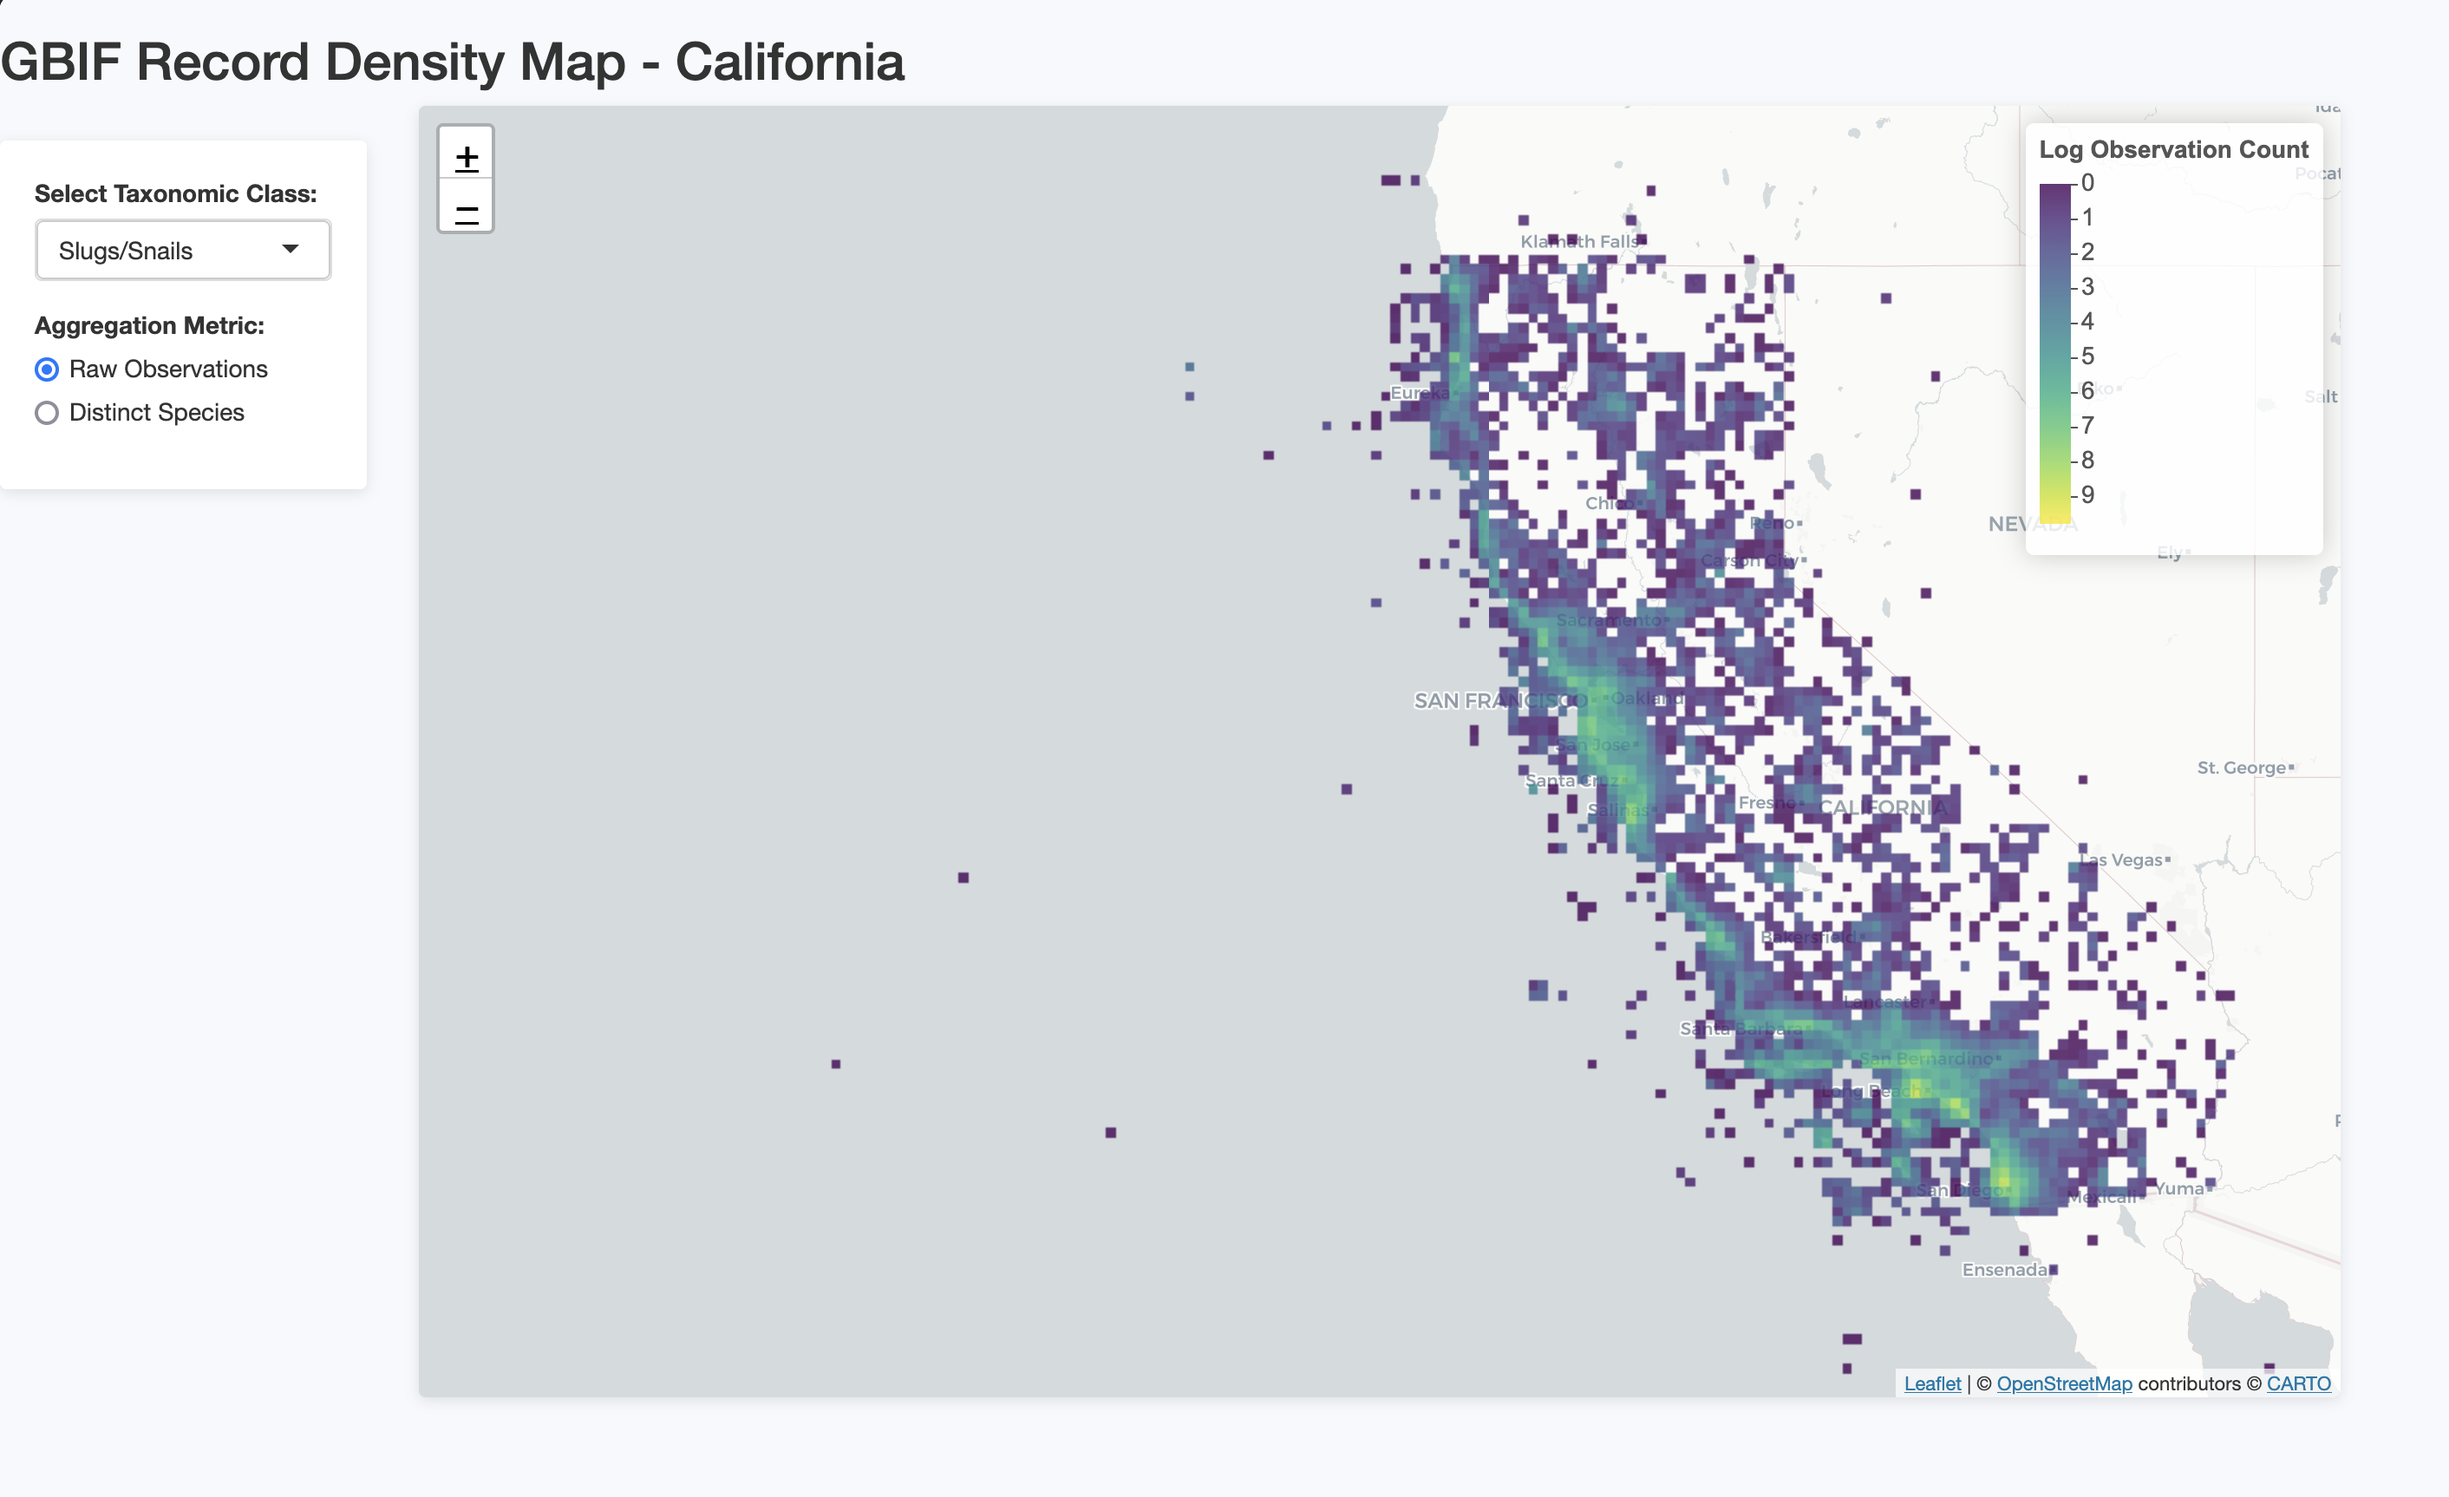
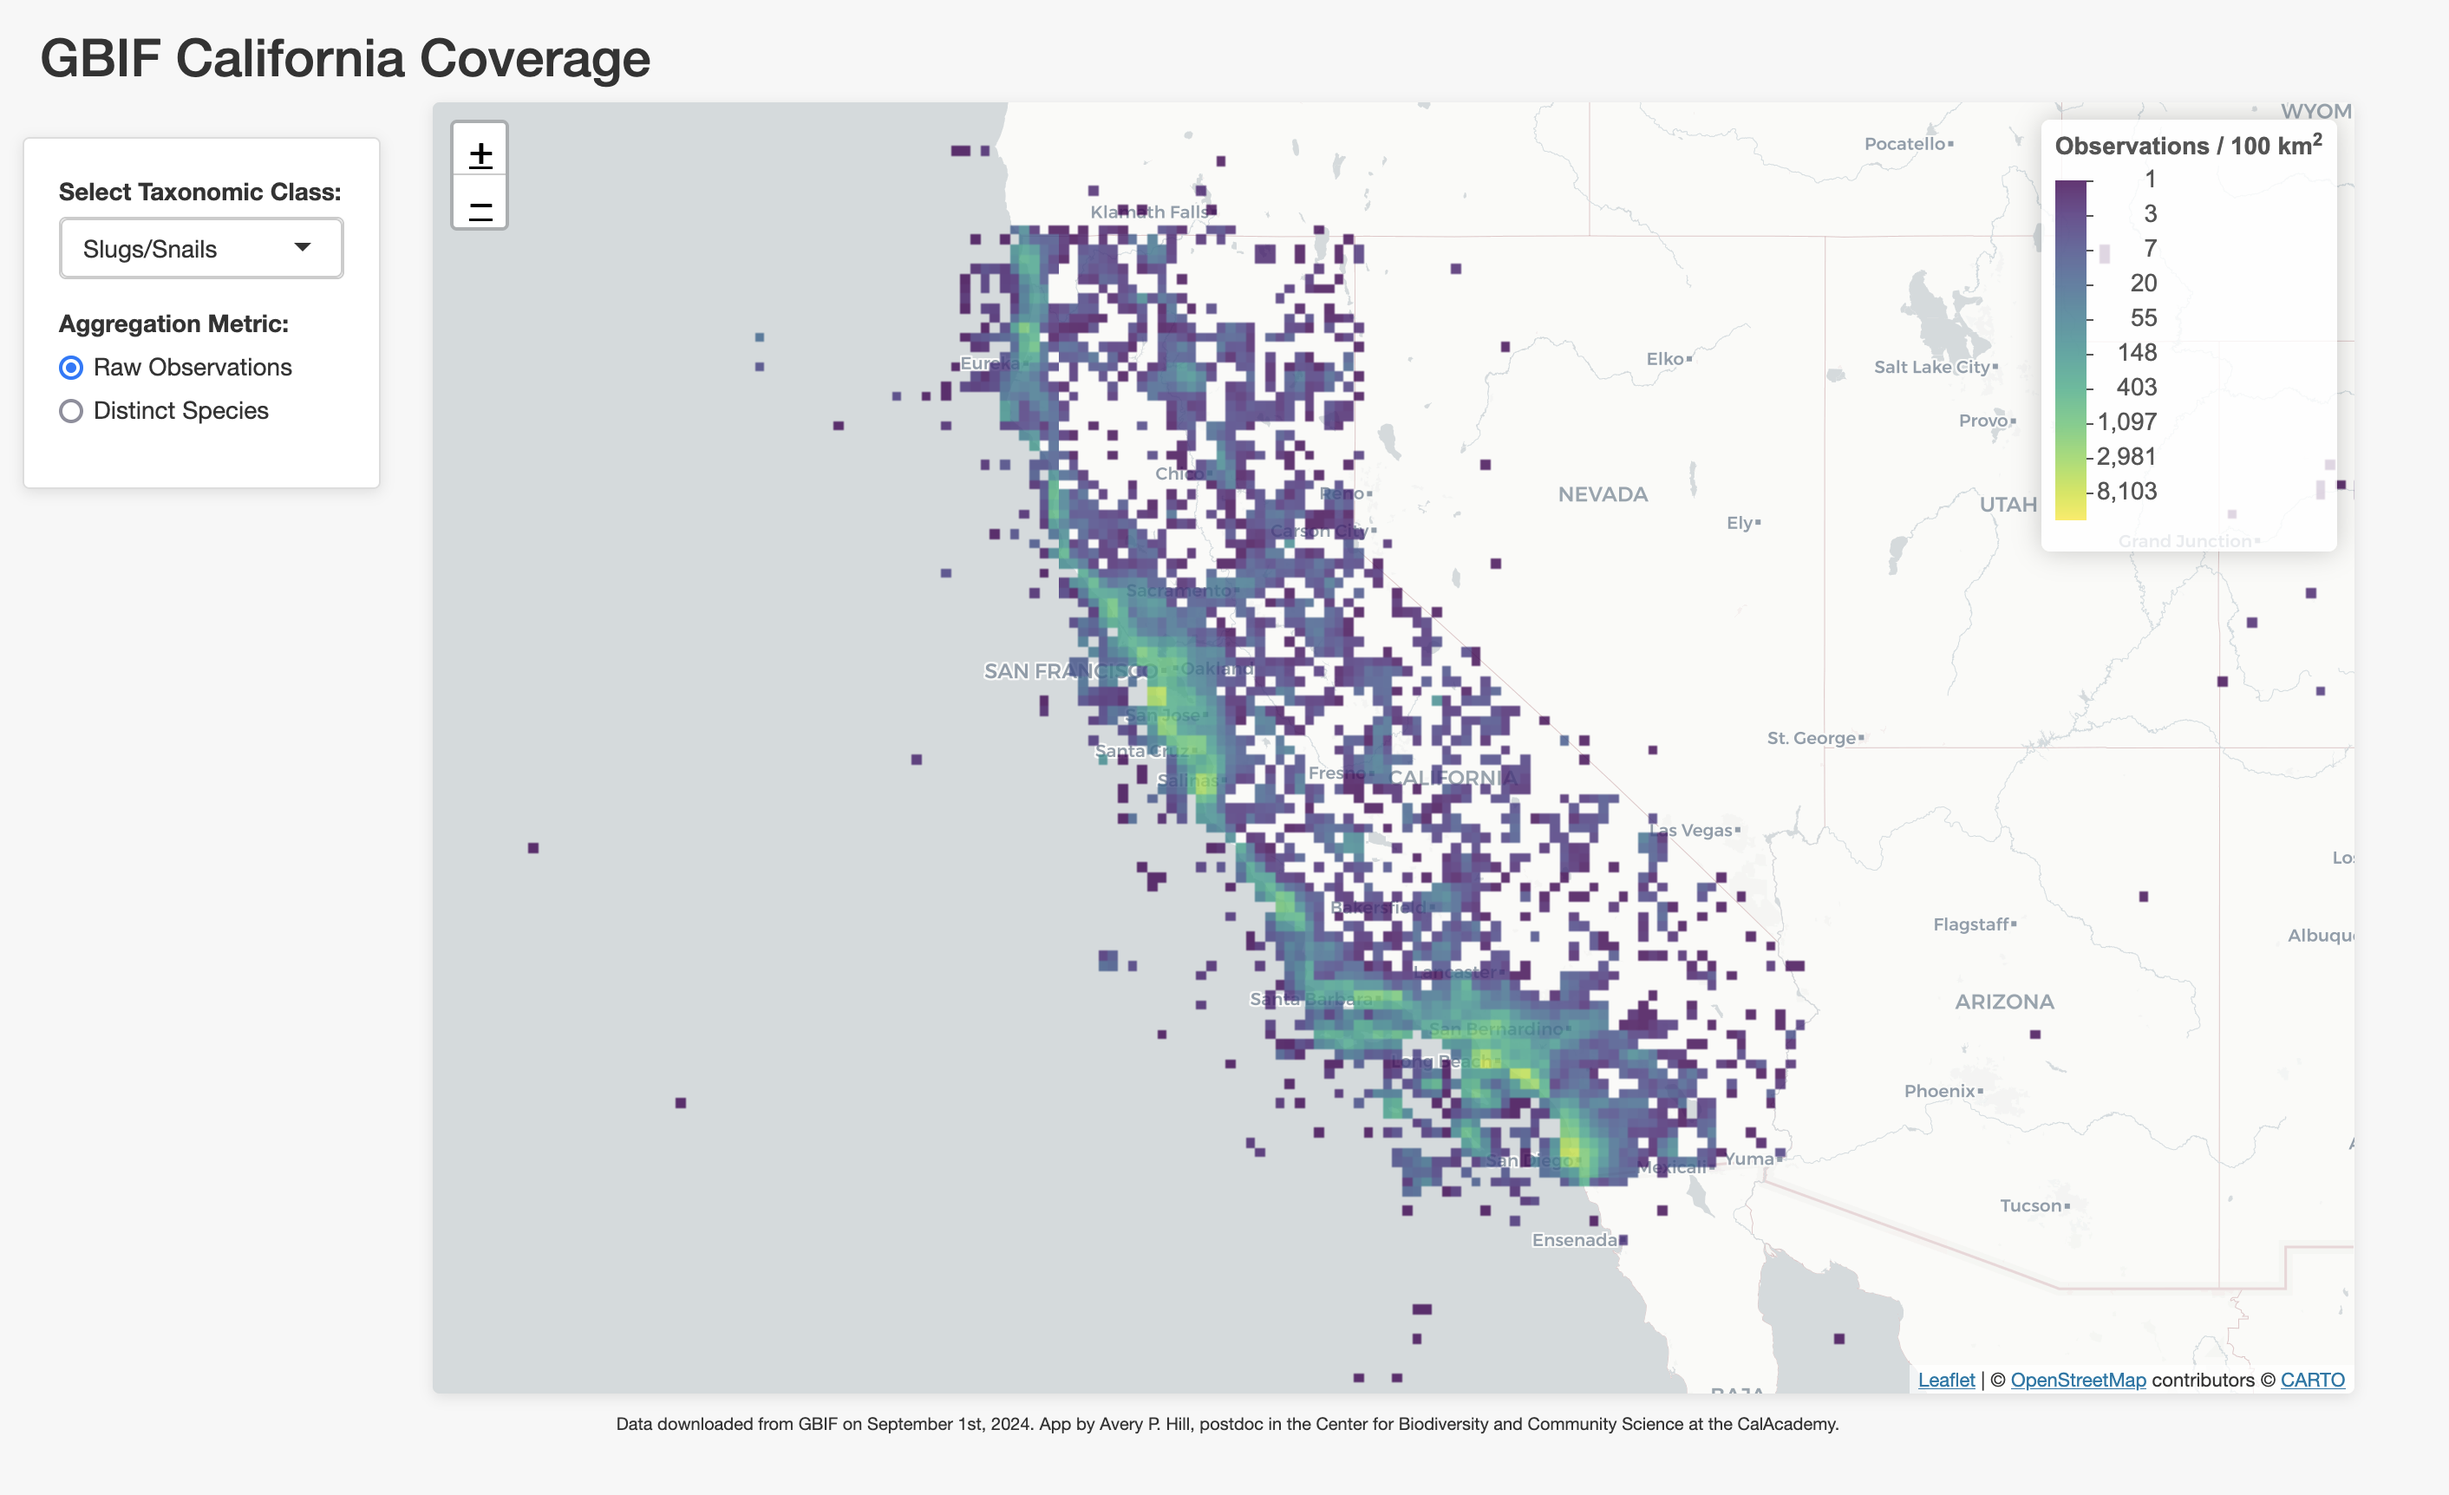
updated for webapp release

diff --git a/shiny/www/style.css b/shiny/www/style.css
@@ -1,4 +1,4 @@
-/* style.css */
+/* style.css - Light Mode Theme with Left Margin Tweaks */
 
 /* ============================
    Global Styles
@@ -8,33 +8,35 @@ html, body {
   margin: 0;
   padding: 0;
   font-family: "Helvetica Neue", Helvetica, Arial, sans-serif;
-  background-color: #f7f9fc;  /* very light blue/gray for a modern look */
-  color: #333;
+  background-color: #f7f7f7;  /* Light background */
+  color: #333;              /* Dark text for contrast */
 }
 
-/* Remove default container padding */
-.container-fluid {
-  padding: 0;
+/* ============================
+   Custom Containers for Left Margin
+   ============================ */
+.title-container,
+.sidebar-panel {
+  margin-left: 10px;  /* A little space to the left */
 }
 
 /* ============================
    Title Panel
    ============================ */
-h1.title {
+h1 {
   font-weight: 300;
   font-size: 2.5em;
-  color: #2c3e50;
-  text-align: center;
+  color: #333;
   margin: 20px 0;
 }
 
 /* ============================
    Sidebar (Well) Styling
    ============================ */
-/* Shiny’s sidebarPanel renders as a .well by default */
+/* Shiny’s sidebarPanel typically renders as a .well */
 .well {
-  background-color: #fff;
-  border: none;
+  background-color: #fff;    /* White background for a clean look */
+  border: 1px solid #ddd;
   box-shadow: 0 2px 8px rgba(0, 0, 0, 0.1);
   border-radius: 4px;
   padding: 20px;
@@ -62,12 +64,17 @@ h1.title {
 }
 
 .form-control, .selectize-control {
-  border: 1px solid #ddd;
+  background-color: #fff;
+  color: #333;
+  border: 1px solid #ccc;
   border-radius: 4px;
 }
 
 /* Style for selectInput dropdown (using selectize) */
 .selectize-input {
+  background-color: #fff;
+  color: #333;
+  border: 1px solid #ccc;
   border-radius: 4px;
 }
 
@@ -82,7 +89,7 @@ h1.title {
    Buttons (if needed)
    ============================ */
 .btn {
-  background-color: #3498db;
+  background-color: #007BFF;
   color: #fff;
   border: none;
   border-radius: 4px;
@@ -91,7 +98,7 @@ h1.title {
 }
 
 .btn:hover {
-  background-color: #2980b9;
+  background-color: #0056b3;
 }
 
 /* ============================
@@ -109,7 +116,7 @@ h1.title {
    Responsive Tweaks
    ============================ */
 @media (max-width: 768px) {
-  h1.title {
+  h1 {
     font-size: 2em;
   }
 }

diff --git a/README.md b/README.md
@@ -1,2 +1,11 @@
-This is a repo that uses `duckdb` and shiny to provide general information about GBIF data coverage for California.
-![](demo-image.png)
+# California GBIF Data Coverage
+
+This repository leverages [DuckDB](https://duckdb.org/) and [Shiny](https://shiny.rstudio.com/) to provide an interactive view of GBIF (Global Biodiversity Information Facility) data coverage across California.
+
+## Web Application
+
+Here's the live webapp: [Link to webapp](https://calacademy-community-science.shinyapps.io/california-gbif-coverage/)
+
+## Screenshot
+
+![Screenshot](demo-image.png)
